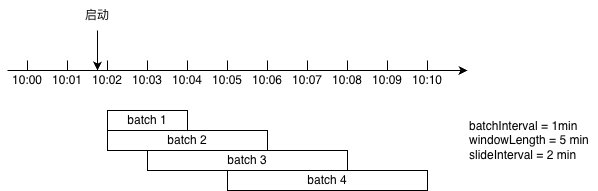
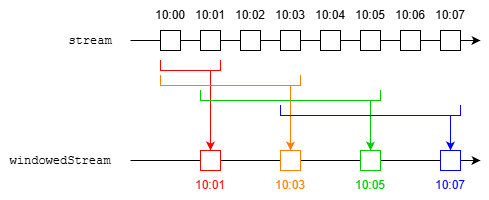
更新《Spark入门教程》

diff --git a/_posts/2023-07-02-spark-tutorial.md b/_posts/2023-07-02-spark-tutorial.md
@@ -1046,7 +1046,15 @@ Spark Streaming提供了一些内置数据源：
 
 （3）自定义数据源
 * 自定义接收器：继承`Receiver`类，在`onStart()`方法中启动新线程，在线程中调用`store()`方法存储接收到的数据，最后使用`ssc.receiverStream()`从接收器创建输入DStream。详见[Custom Receiver Guide](https://spark.apache.org/docs/latest/streaming-custom-receivers.html)。
-* 自定义输入DStream：继承`InputDStream`类，实现`compute()`、`start()`和`stop()`方法。`compute(time)`方法生成给定时间的RDD，`time`是按分批间隔对齐的时间戳。例如，假设分批间隔是5分钟，作业在10:03开始运行，则`compute()`方法会依次在10:05、10:10、10:15等时刻被调用，参数是对应的时间戳。
+* 自定义输入DStream：继承`InputDStream`类，实现`compute()`、`start()`和`stop()`方法。`compute(time)`方法生成给定时间的RDD。
+
+注：关于DStream的分批时间
+* 分批时间（如`compute()`和`foreachRDD()`方法的`time`参数）是当前批次对应的时间戳（毫秒），**按分批间隔对齐**。例如，假设分批间隔是5分钟，作业在10:03:42开始运行，则分批时间依次为10:05:00、10:10:00、10:15:00等，不会出现10:04:00或者10:05:30。
+* 实际调用`compute()`的时间可能稍晚于分批时间。
+* DStream并未规定分批时间的含义，但通常是当前批次的**结束时间**（因为批次结束后才能计算完整数据，如6.4节图所示）。
+  * 对于基于接收器的`ReceiverInputDStream`（如6.1节示例中的套接字流），T时刻的批次包含[T-b, T]时间内接收到的数据，其中b是分批间隔。
+  * 对于自定义`InputDStream`，含义由业务逻辑决定。例如，假设每个批次从HDFS读取一个以开始时间命名的分区，分区间隔为b，则T+b时刻及以后的批次才能读取T时刻的分区。
+* 窗口操作输出的分批时间见6.6.2节。
 
 ### 6.6 DStream操作
 完整列表见API文档[DStream](https://spark.apache.org/docs/latest/api/scala/org/apache/spark/streaming/dstream/DStream.html)和[PairDStreamFunctions](https://spark.apache.org/docs/latest/api/scala/org/apache/spark/streaming/dstream/PairDStreamFunctions.html)。
@@ -1076,15 +1084,21 @@ val stream = ...
 val windowedStream = stream.window(Minutes(5), Minutes(2))
 ```
 
-假设作业启动时间为10:01:40，则`windowedStream`输出的RDD批次如下图所示：
+假设第一个分批时间为10:00，则`windowedStream`输出的RDD批次如下图所示：
 
 ![DStream窗口示例](/assets/images/spark-tutorial/DStream窗口示例.png)
 
-* 第1个批次时间为10:03，包含[10:02, 10:04)的数据
-* 第2个批次时间为10:05，包含[10:02, 10:06)的数据
-* 第3个批次时间为10:07，包含[10:03, 10:08)的数据
-* 第4个批次时间为10:09，包含[10:05, 10:10)的数据
-* 以此类推
+| 序号 | 输出批次 | 包含原始批次 |
+| --- | --- | --- |
+| 1 | 10:01 | [10:00, 10:01] |
+| 2 | 10:03 | [10:00, 10:03] |
+| 3 | 10:05 | [10:01, 10:05] |
+| 4 | 10:07 | [10:03, 10:07] |
+| ... | ... | ... |
+
+输出批次的时间是窗口内**最后一个**原始批次的时间。
+
+注：窗口操作输出的分批时间不一定按滑动距离对齐，但一定按原始分批间隔对齐。在上面的例子中，输出分批时间可能是10:01:00、10:03:00、10:05:00等，也可能是10:02:00、10:04:00、10:06:00等，但不会是10:01:30。
 
 #### 6.6.3 join操作
 在Spark Streaming中可以很容易地执行join操作。
